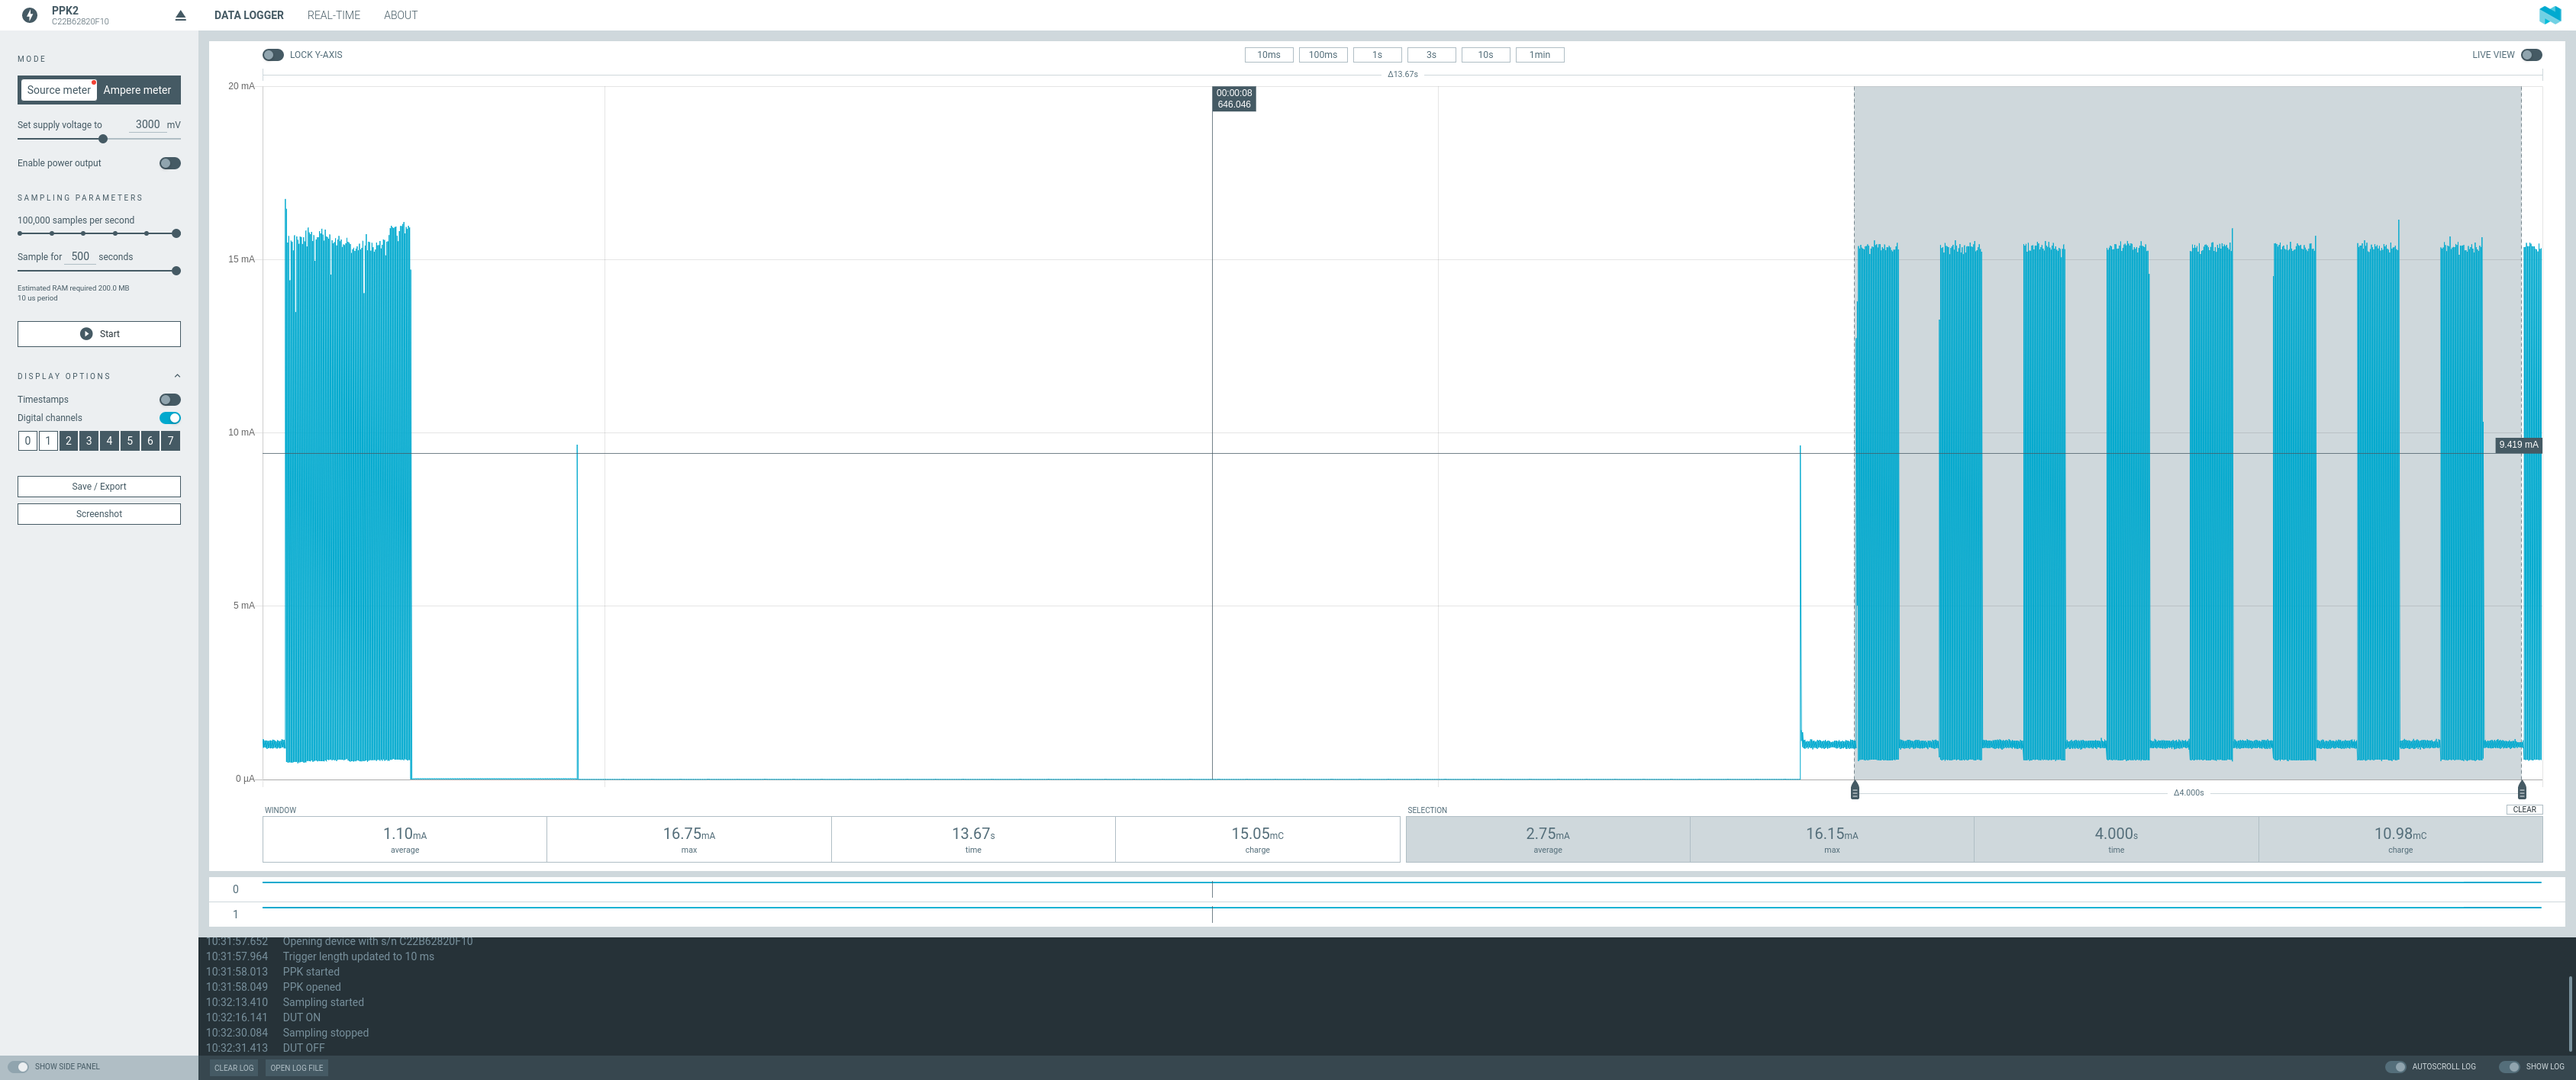
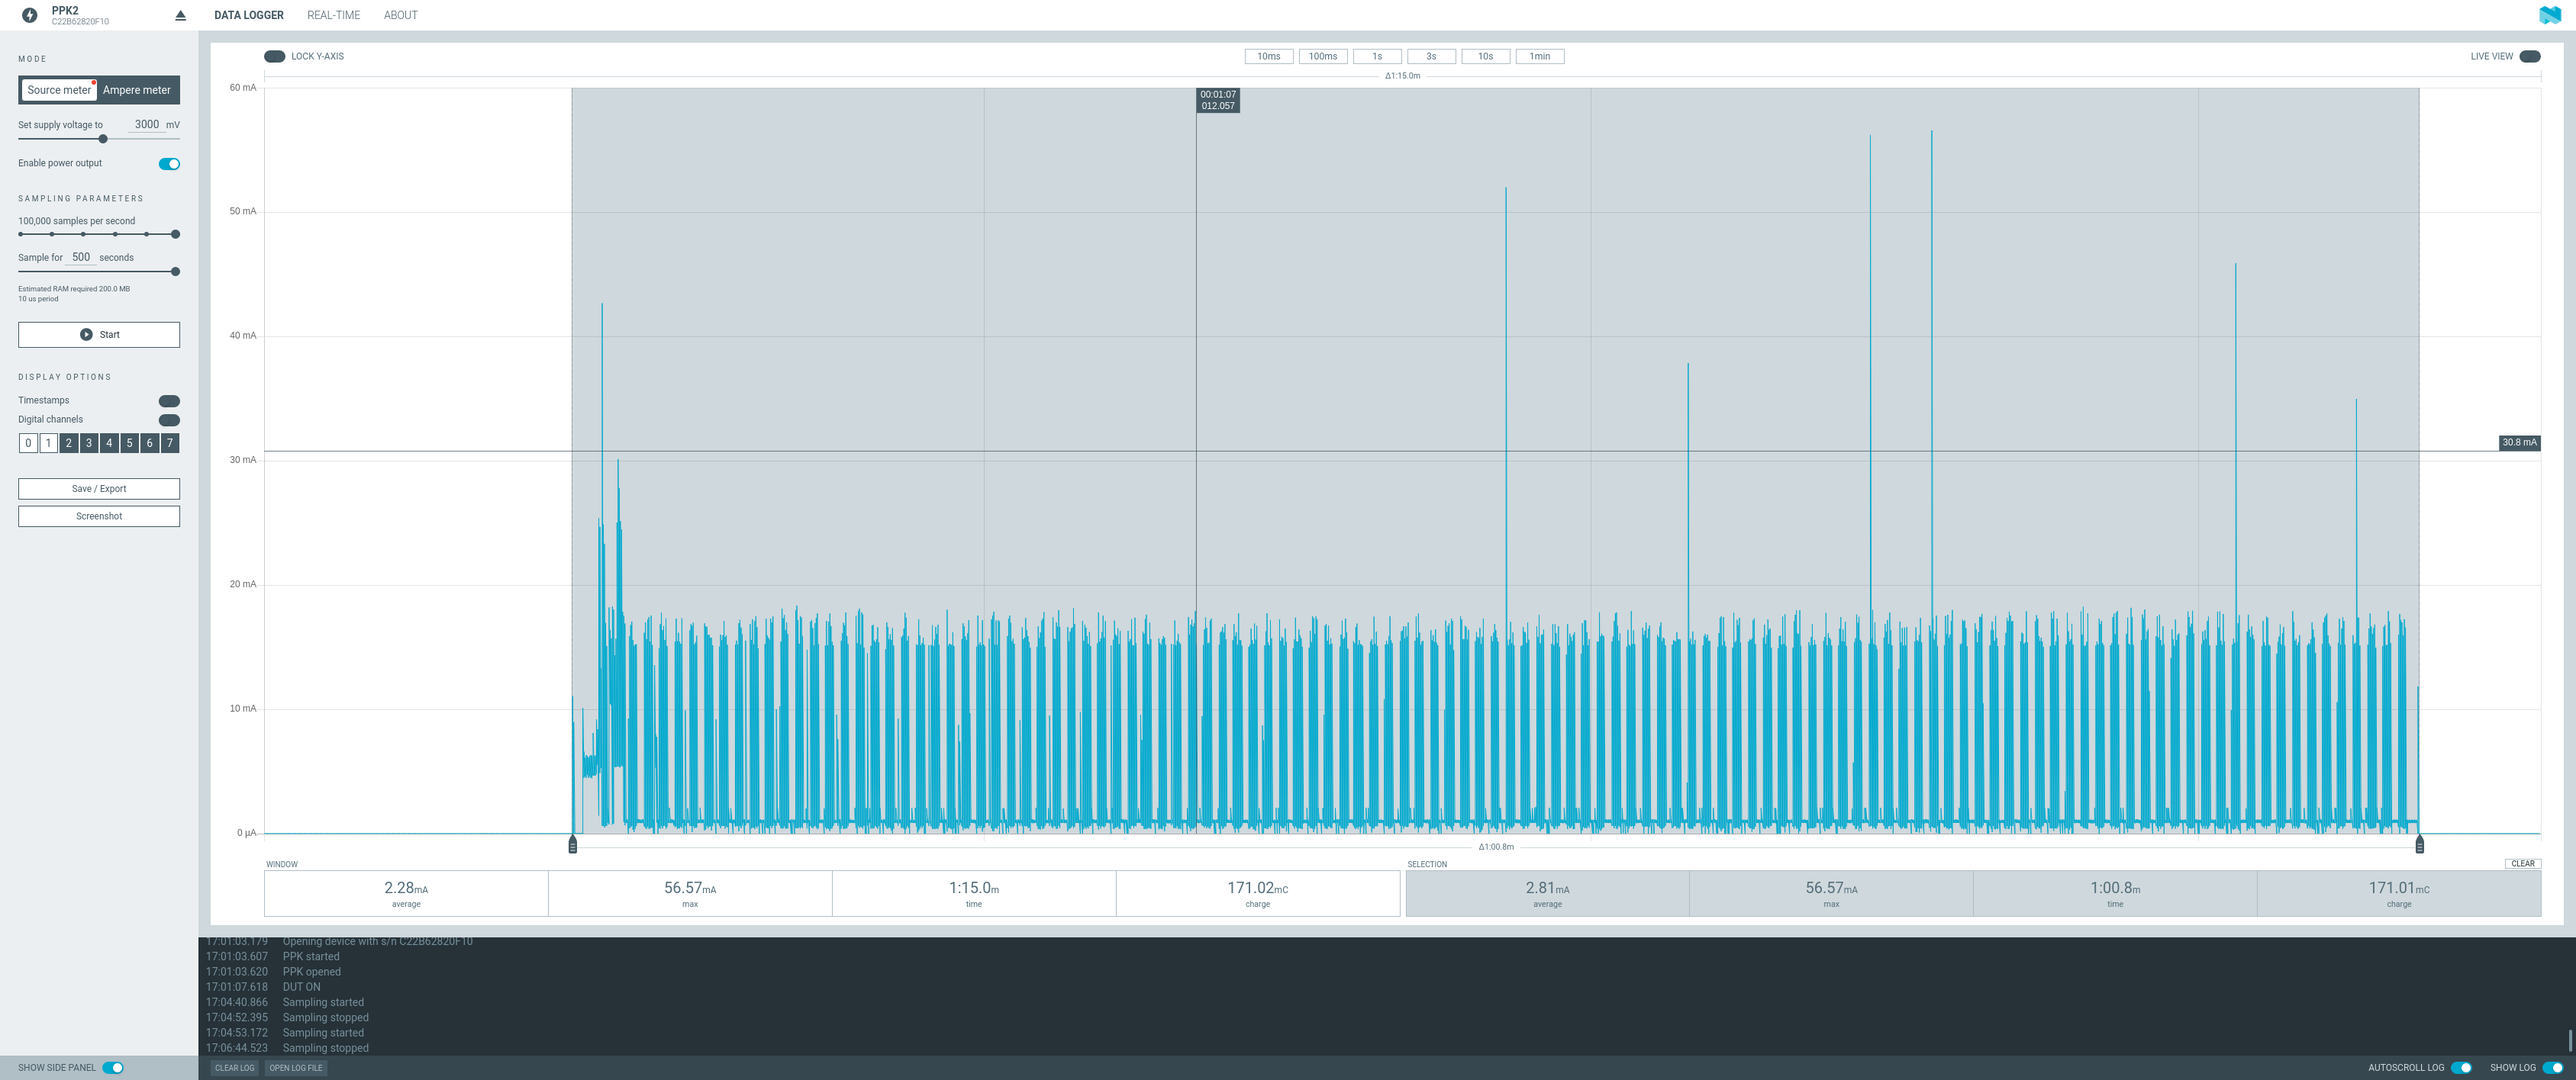
Update power consumption based on firmware v1.1.0

diff --git a/README.md b/README.md
@@ -35,7 +35,7 @@ start if water shorts them out.
 
 ## Power Consumption
 
-Based on revision [`ff65151e477efaec1259688cf5fb03853c3a1412`](https://github.com/fgervais/project-nrf-leak-detector/tree/ff65151e477efaec1259688cf5fb03853c3a1412/app/src).
+Based on revision [`8f98e931fbc428e85092b7998ec07682605cf380`](https://github.com/fgervais/project-nrf-leak-detector/tree/8f98e931fbc428e85092b7998ec07682605cf380/app/src).
 
 ### Idle
 
@@ -44,14 +44,14 @@ Based on revision [`ff65151e477efaec1259688cf5fb03853c3a1412`](https://github.co
 How long can the device monitor for a leak?
 
 - Energizer CR2032 = $810 \\, C$
-- Idle consumption = $1.72 \\, \frac{{\mu}C}{s}$
+- Idle consumption = $1.09 \\, \frac{{\mu}C}{s}$
 
 ```math
-\frac{810 \, C}{1.72 \times 10^-6 \, \frac{C}{s}} = 470.93 \times 10^6 \, s
+\frac{810 \, C}{1.09 \times 10^-6 \, \frac{C}{s}} = 743.119 \times 10^6 \, s
 ```
 
 ```math
-470.93 \times 10^6 \, seconds \times \frac{1 \, minute}{60 \, second} \times \frac{1 \, hour}{60 \, minute} \times \frac{1 \, day}{24 \, hour} \times \frac{1 \, year}{365.25 \, days} = 14.92 \, years
+470.93 \times 10^6 \, seconds \times \frac{1 \, minute}{60 \, second} \times \frac{1 \, hour}{60 \, minute} \times \frac{1 \, day}{24 \, hour} \times \frac{1 \, year}{365.25 \, days} = 23 \, years
 ```
 
 Note: This does not account for the battery self discharge and the battery voltage
